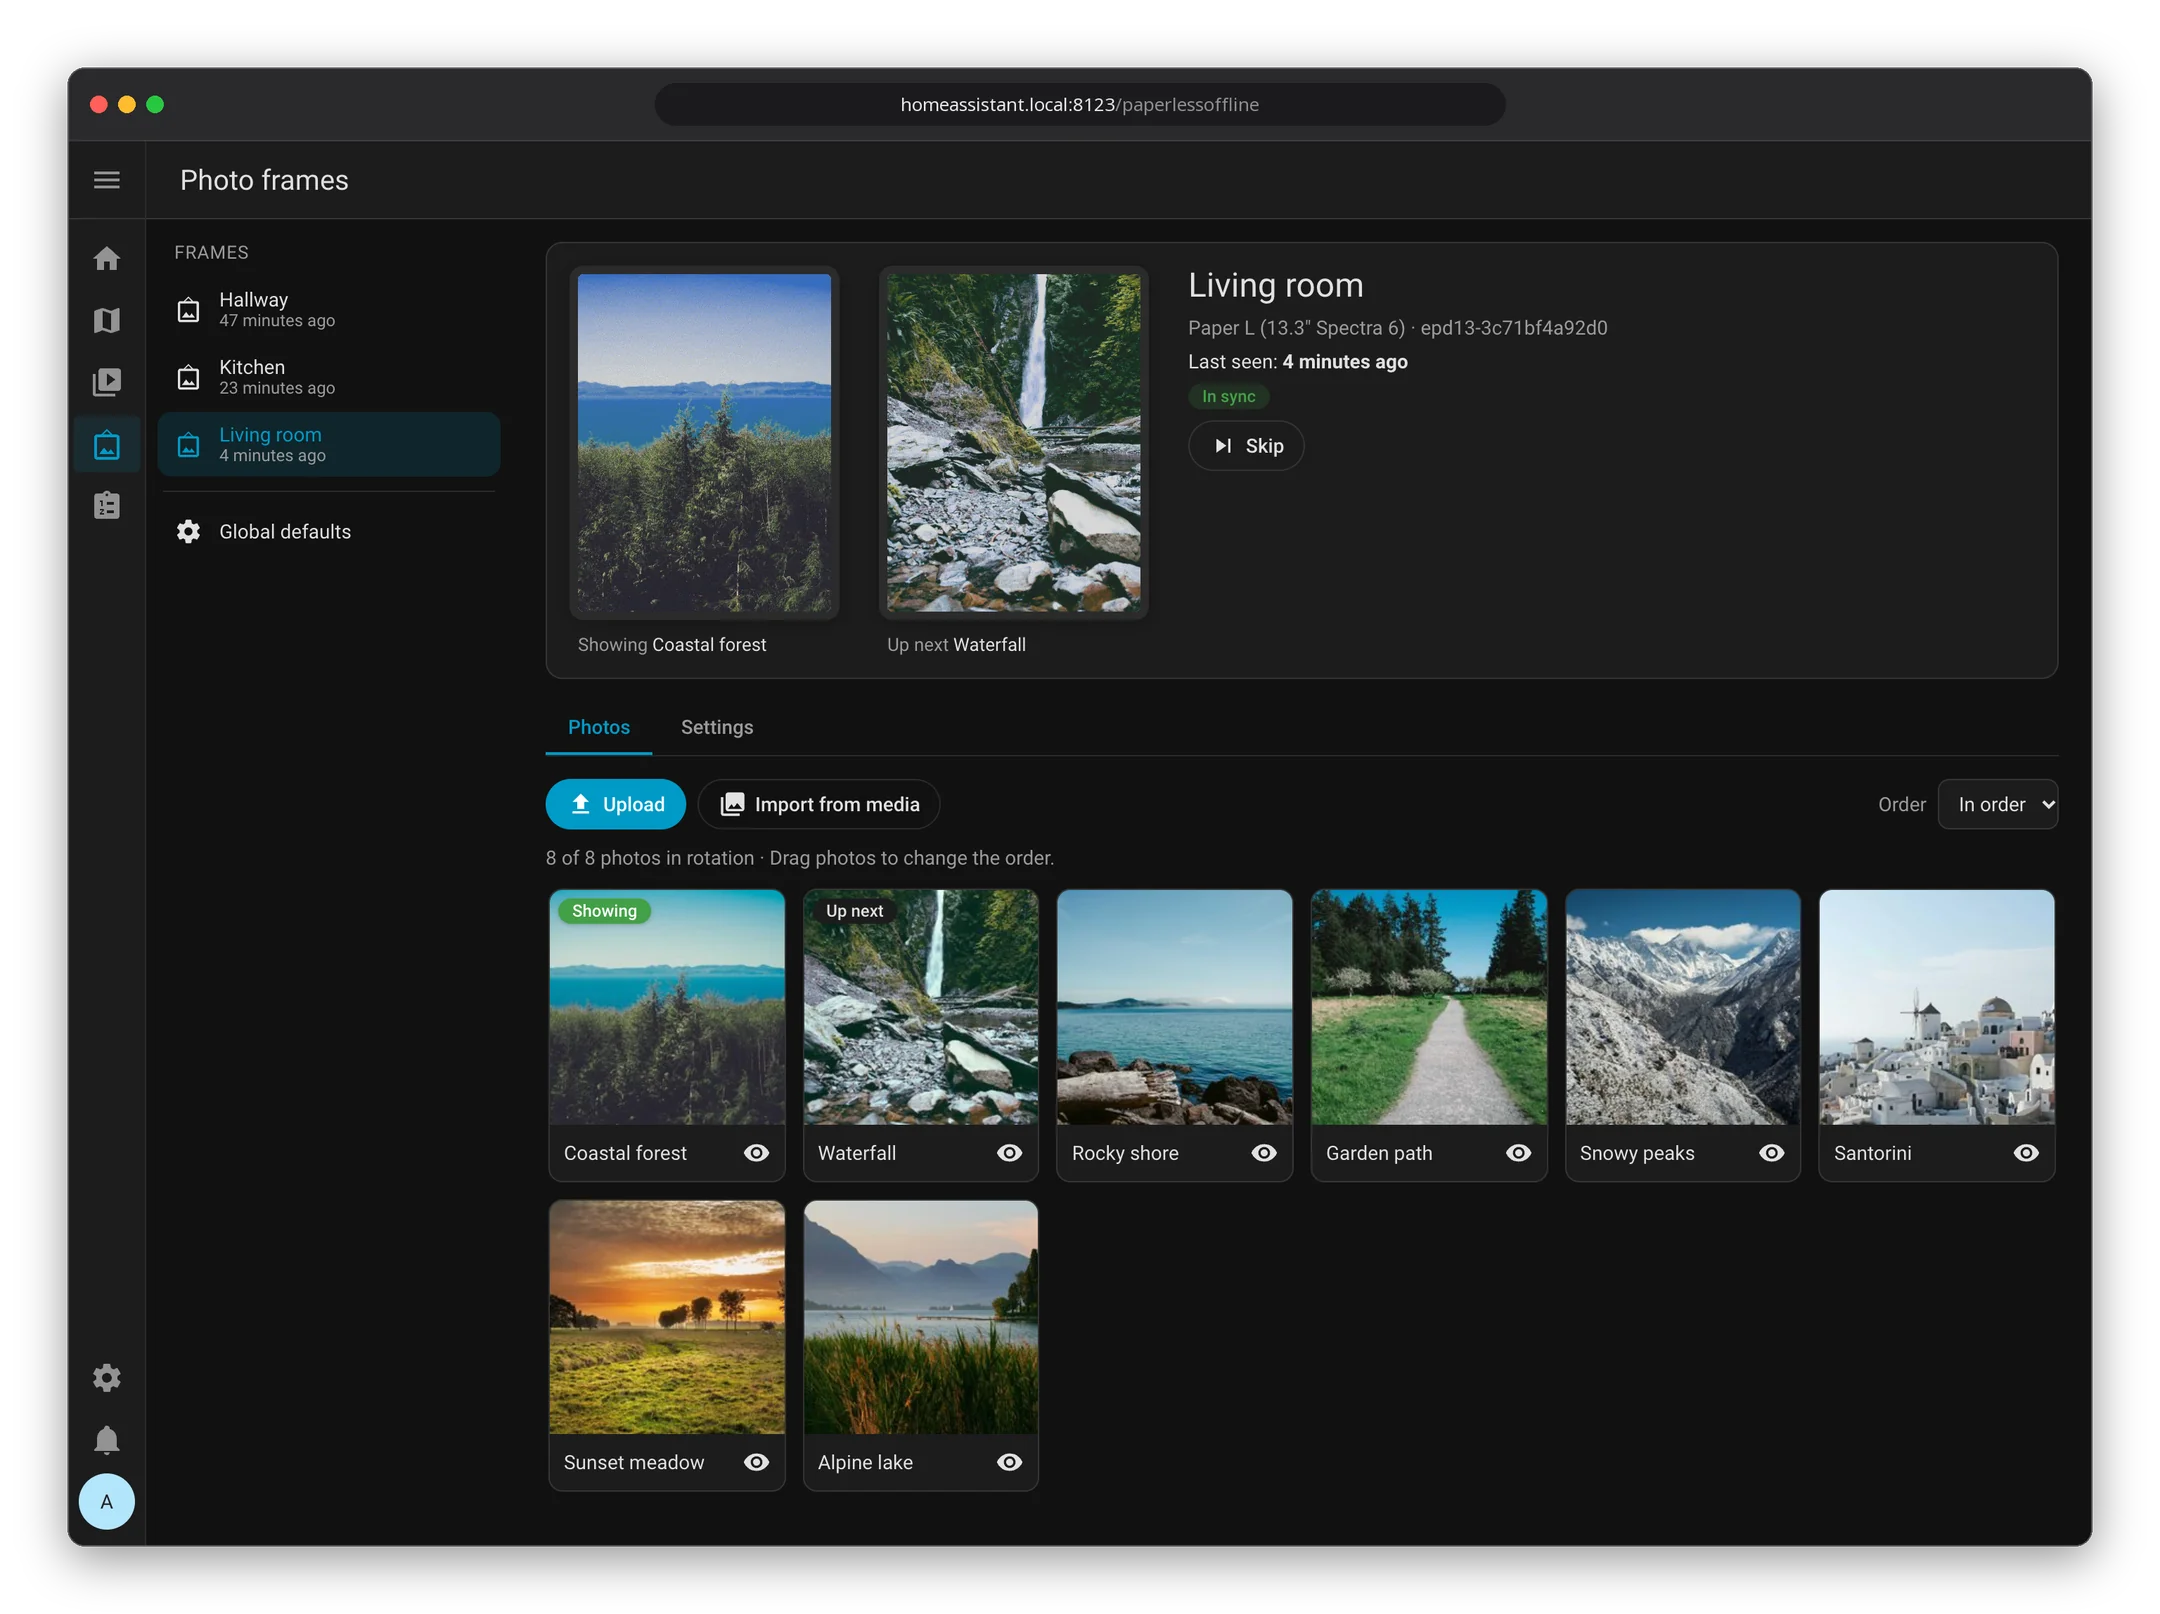
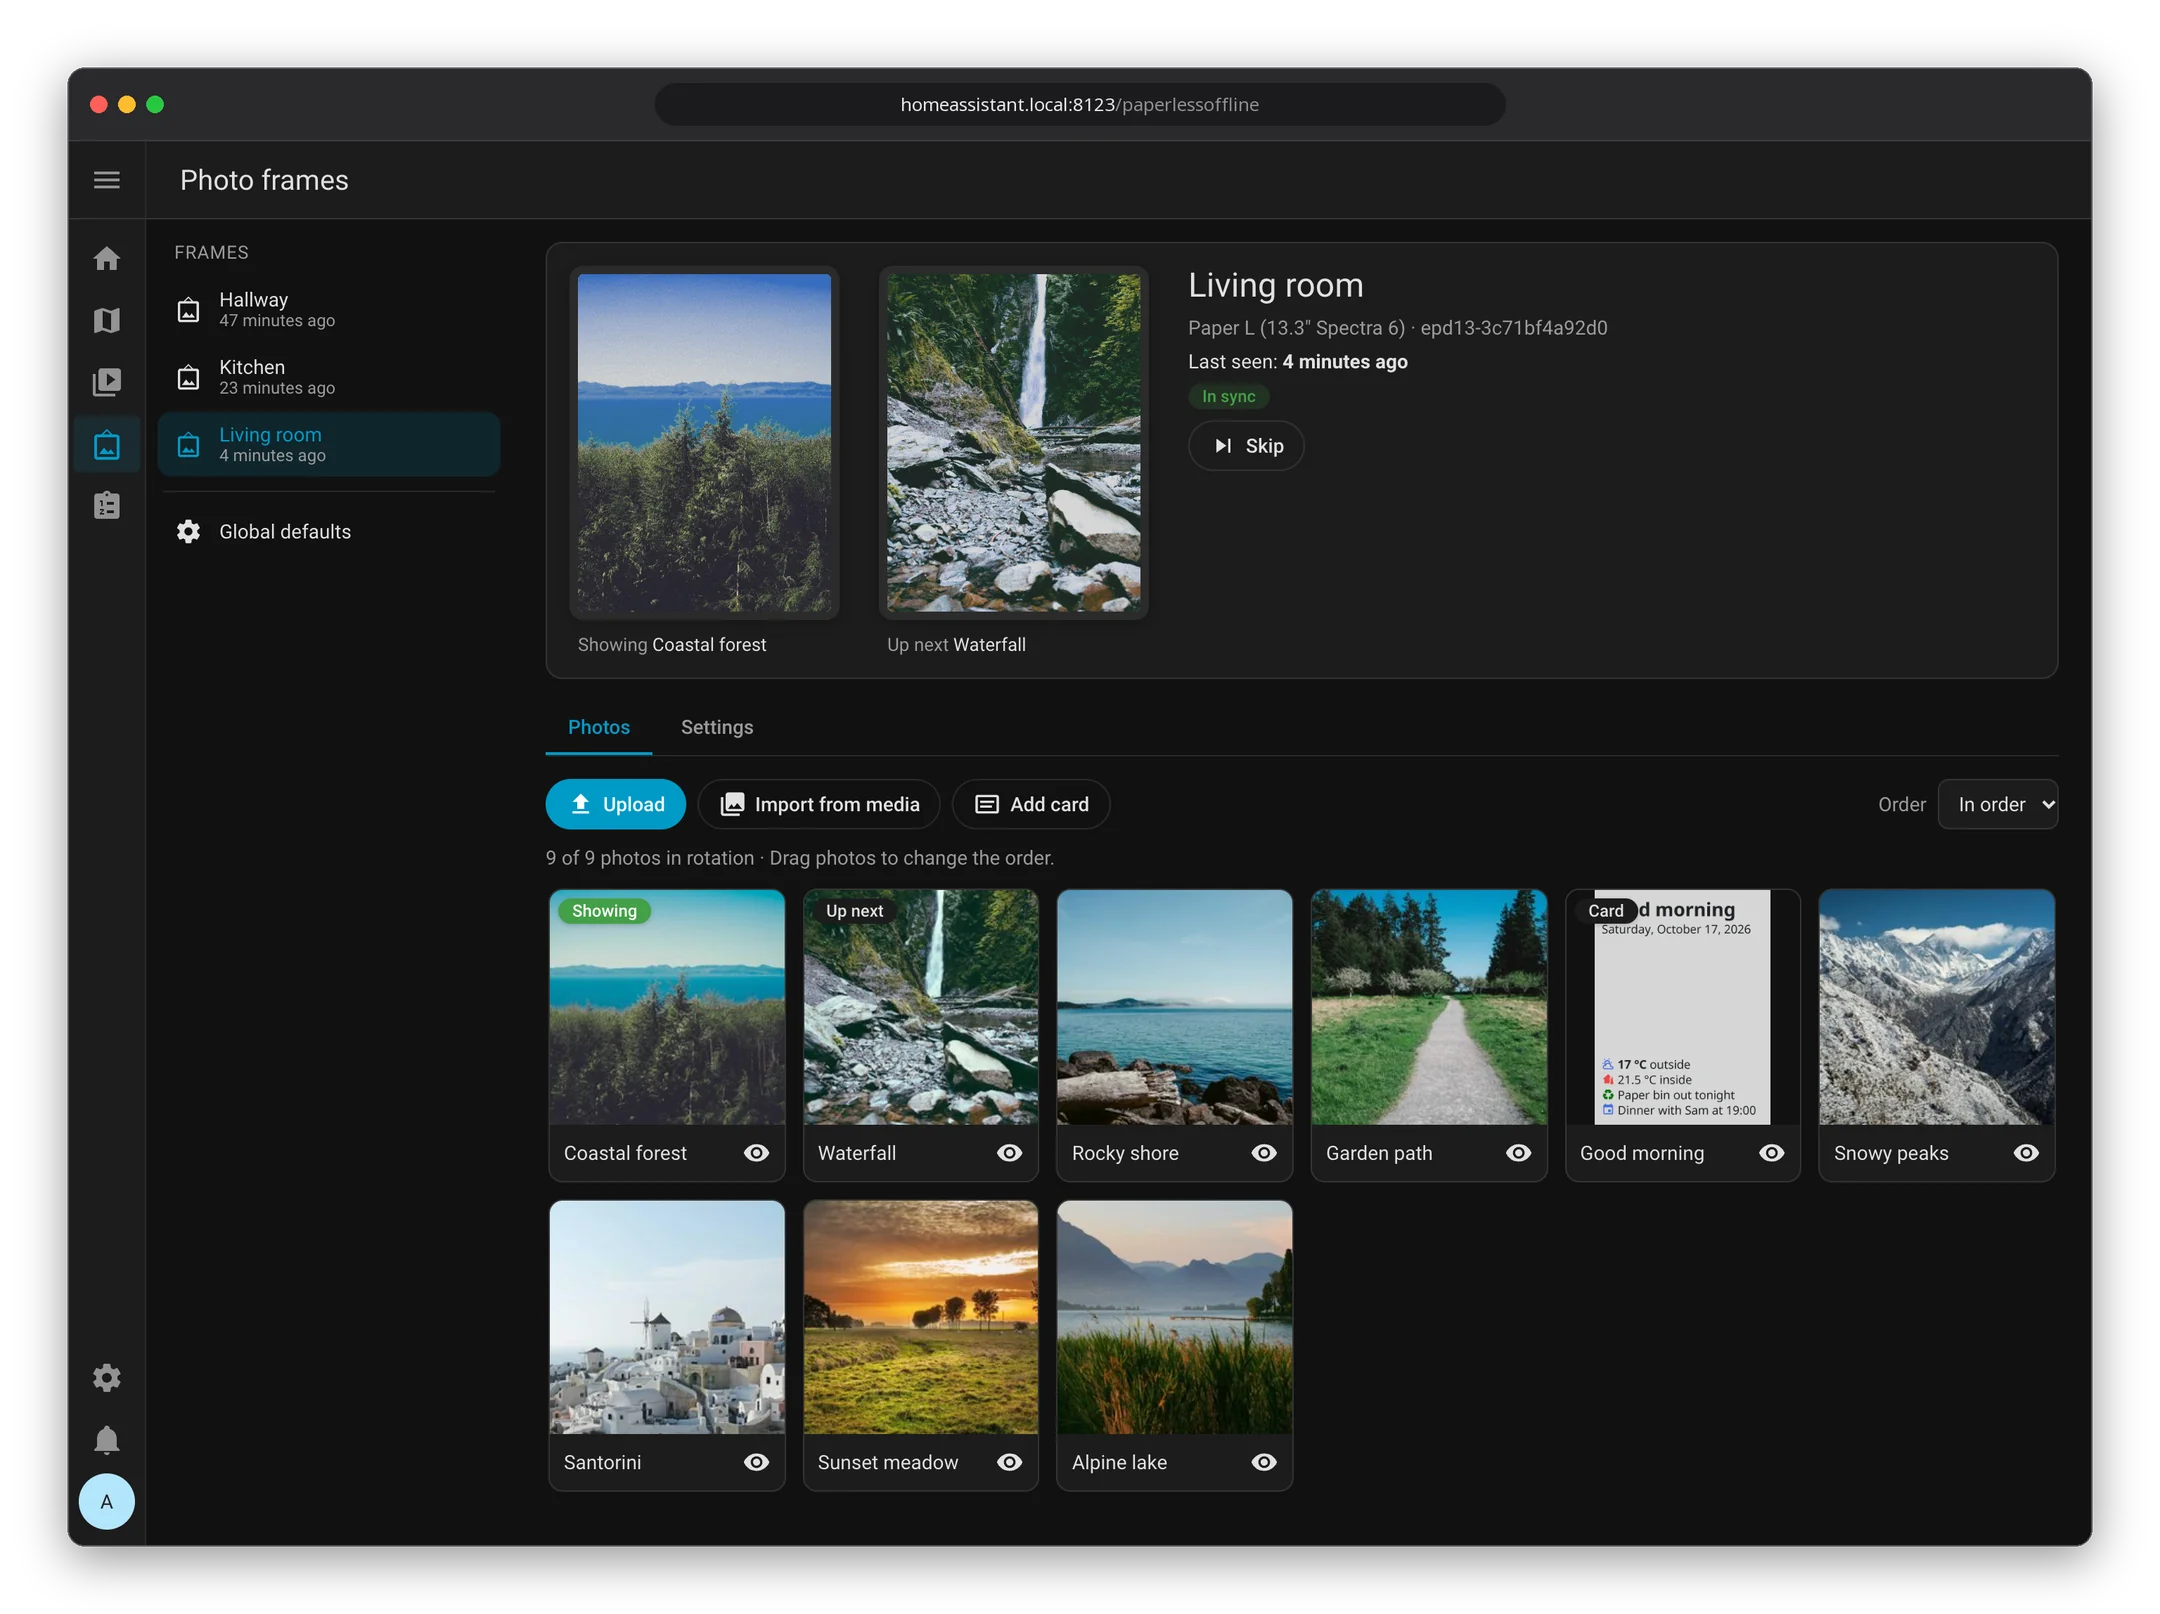
Show a text card in the README screenshots
The screenshot script adds a "Good morning" card to the living room
frame, fifth in the order after four photos, so the library shows a card
among the photos while the frame keeps showing a photo. Its templates read
fake weather and temperature states the script sets after each start.

Changed region(s): [[0.2481, 0.7435, 0.6204, 0.9294], [0.7134, 0.5266, 0.9616, 0.7435], [0.4653, 0.4957, 0.4963, 0.5266]]

diff --git a/tools/screenshots.py b/tools/screenshots.py
@@ -1,9 +1,9 @@
 """Regenerate the README screenshots in docs/images/.
 
 Starts a throwaway Home Assistant with this integration, adds three frames
-with sample photos from picsum.photos, simulates a wake for each, and takes
-dark-mode screenshots of the panel, the photo editor and the global defaults
-with tools/screenshots.mjs.
+with sample photos from picsum.photos and a text card, simulates a wake for
+each, and takes dark-mode screenshots of the panel, the photo editor and the
+global defaults with tools/screenshots.mjs.
 
 Needs the dev venv (see DEVELOPMENT.md), `npm ci` in frontend/ and Google
 Chrome (set CHROME to use another Chromium binary).
@@ -81,6 +81,42 @@ FRAMES = [
     ("Hallway", "epd7-dc1ed5613e74", 3720, 47, [(28, "Green gorge"), (11, "Misty valley")]),
 ]
 EDIT_FRAME, EDIT_PHOTO = "Living room", "Sunset meadow"
+
+# A card in the middle of the living room library: (frame, name, background, overlays).
+CARD_POSITION = 4
+CARD = (
+    "Living room",
+    "Good morning",
+    "white",
+    [
+        {
+            "name": "Greeting",
+            "template": "# Good morning\n{{ date_local(now(), 'long') }}",
+            "anchor": "top_left",
+            "size": "l",
+            "backing": "none",
+        },
+        {
+            "name": "Today",
+            "template": (
+                "{blue}{{ weather_icon(states('weather.home')) }}{/blue} "
+                "**{{ state_attr('weather.home', 'temperature') }} °C** outside\n"
+                "{red}:mdi:home-thermometer:{/red} "
+                "{{ states('sensor.living_room_temperature') }} °C inside\n"
+                "{green}:mdi:recycle:{/green} Paper bin out tonight\n"
+                "{blue}:mdi:calendar:{/blue} Dinner with Sam at 19:00"
+            ),
+            "anchor": "bottom_left",
+            "size": "l",
+            "backing": "none",
+        },
+    ],
+)
+# Entity states the card's templates read; set again after every start.
+STATES = {
+    "weather.home": ("partlycloudy", {"temperature": 17, "friendly_name": "Home"}),
+    "sensor.living_room_temperature": ("21.5", {"unit_of_measurement": "°C"}),
+}
 
 CONFIG = """\
 homeassistant:
@@ -223,6 +259,49 @@ async def onboard(session: aiohttp.ClientSession, base: str) -> dict:
     return {**tokens, "hassUrl": base, "clientId": client_id, "expires": 0}
 
 
+async def set_states(session: aiohttp.ClientSession, base: str, token: str) -> None:
+    auth = {"Authorization": f"Bearer {token}"}
+    for entity_id, (state, attributes) in STATES.items():
+        async with session.post(
+            f"{base}/api/states/{entity_id}",
+            json={"state": state, "attributes": attributes},
+            headers=auth,
+        ) as r:
+            r.raise_for_status()
+
+
+async def call_service(
+    session: aiohttp.ClientSession, base: str, token: str, service: str, **data
+) -> dict:
+    """Call a paperlessoffline action; return its response (empty for actions without one)."""
+    respond = service in ("add_card", "add_overlay")
+    async with session.post(
+        f"{base}/api/services/paperlessoffline/{service}" + ("?return_response" if respond else ""),
+        json=data,
+        headers={"Authorization": f"Bearer {token}"},
+    ) as r:
+        r.raise_for_status()
+        return (await r.json()).get("service_response") or {} if respond else {}
+
+
+async def add_card(session: aiohttp.ClientSession, base: str, token: str, entry_id: str) -> None:
+    """Add CARD at CARD_POSITION in the frame's order; the wake still shows the first photo."""
+    _, name, background, overlays = CARD
+    card = await call_service(
+        session, base, token, "add_card", config_entry_id=entry_id, name=name,
+        background=background,
+    )  # fmt: skip
+    for overlay in overlays:
+        await call_service(
+            session, base, token, "add_overlay",
+            config_entry_id=entry_id, photo_id=card["photo_id"], **overlay,
+        )  # fmt: skip
+    await call_service(
+        session, base, token, "move_photo",
+        config_entry_id=entry_id, photo_id=card["photo_id"], position=CARD_POSITION,
+    )  # fmt: skip
+
+
 async def fetch_photos(session: aiohttp.ClientSession, cache: Path) -> None:
     cache.mkdir(parents=True, exist_ok=True)
     for _, _, _, _, photos in FRAMES:
@@ -271,6 +350,8 @@ async def add_frames(
             headers={**auth, "Content-Type": f"multipart/form-data; boundary={boundary}"},
         ) as r:
             r.raise_for_status()
+        if name == CARD[0]:
+            await add_card(session, base, token, entry_id)
 
         # A wake as the firmware does it: settings first, then the image with telemetry.
         async with session.get(urls["settings_url"]) as r:
@@ -286,7 +367,7 @@ async def add_frames(
             r.raise_for_status()
             await r.read()
         entries[name] = {"entry_id": entry_id}
-        print(f"  {name}: {len(photos)} photos")
+        print(f"  {name}: {len(photos)} photos" + (", 1 card" if name == CARD[0] else ""))
     return entries
 
 
@@ -388,6 +469,7 @@ async def main(keep: bool) -> None:
             print(f"Starting Home Assistant on {ha.base}")
             await ha.start(session)
             tokens = await onboard(session, ha.base)
+            await set_states(session, ha.base, tokens["access_token"])
             print("Adding frames")
             entries = await add_frames(session, ha.base, tokens["access_token"], work / "photos")
 
@@ -395,6 +477,7 @@ async def main(keep: bool) -> None:
             ha.stop()
             backdate(config, entries)
             await ha.start(session)
+            await set_states(session, ha.base, tokens["access_token"])
             await tidy_up(session, ha, tokens["access_token"])
 
             print("Taking screenshots")

diff --git a/DEVELOPMENT.md b/DEVELOPMENT.md
@@ -78,10 +78,11 @@ gh release create v0.5.0 --generate-notes
 
 The README screenshots in `docs/images/` are generated by
 `tools/screenshots.py`. It builds the frontend, then starts a throwaway Home
-Assistant with three frames and sample photos from
-[picsum.photos](https://picsum.photos), simulates a wake for each frame, and
-takes dark-mode screenshots with headless Chrome (`tools/screenshots.mjs`).
-The main panel screenshot is wrapped in a stylised browser window.
+Assistant with three frames, sample photos from
+[picsum.photos](https://picsum.photos) and a text card on the living room
+frame, simulates a wake for each frame, and takes dark-mode screenshots
+with headless Chrome (`tools/screenshots.mjs`). The main panel screenshot
+is wrapped in a stylised browser window.
 
 ```sh
 cd frontend && npm ci && cd ..
@@ -90,8 +91,8 @@ cd frontend && npm ci && cd ..
 ```
 
 It expects Google Chrome in `/Applications`; set `CHROME` to use another
-Chromium binary. The frames, photos and wake times are defined at the top of
-the script.
+Chromium binary. The frames, photos, card and wake times are defined at the
+top of the script.
 
 ## Hardware check
 

diff --git a/README.md b/README.md
@@ -10,7 +10,7 @@ This integration is for frames running the
 For telemetry on wake, use the fork
 [FWeinb/paperlesspaper-firmware-offline](https://github.com/FWeinb/paperlesspaper-firmware-offline).
 
-![The Photo frames panel in dark mode, showing three frames and the photo library of the living room frame](docs/images/panel-dark.webp)
+![The Photo frames panel in dark mode, showing three frames and the library of the living room frame with a text card among the photos](docs/images/panel-dark.webp)
 
 ## Screenshots
 
